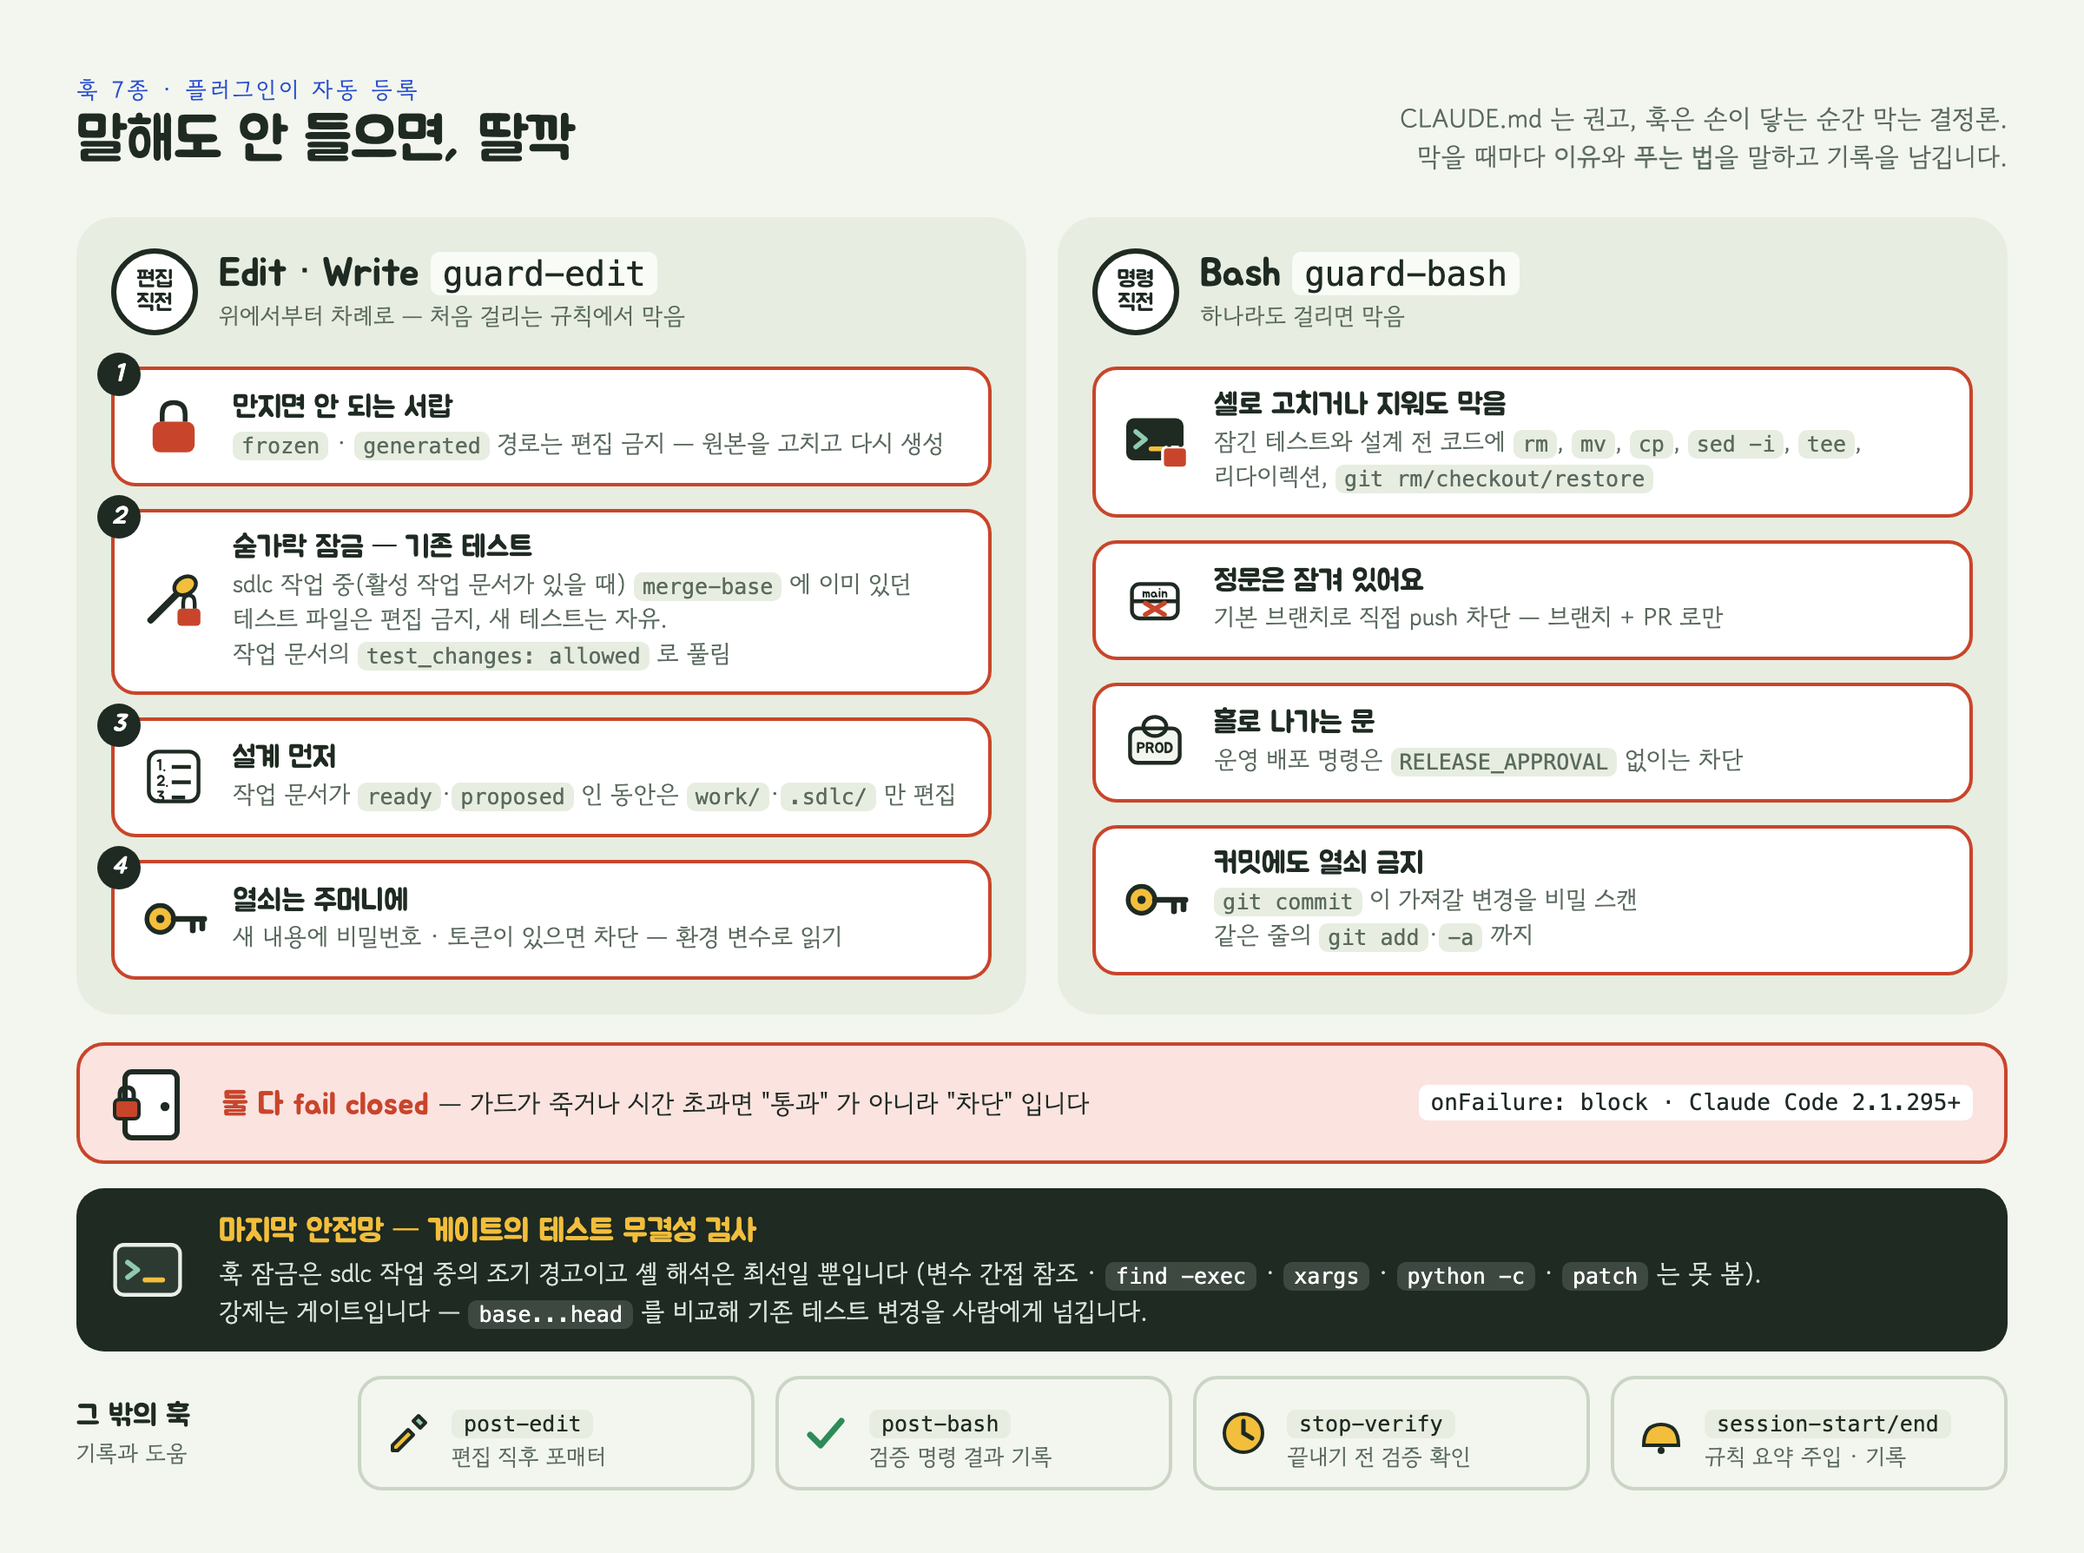
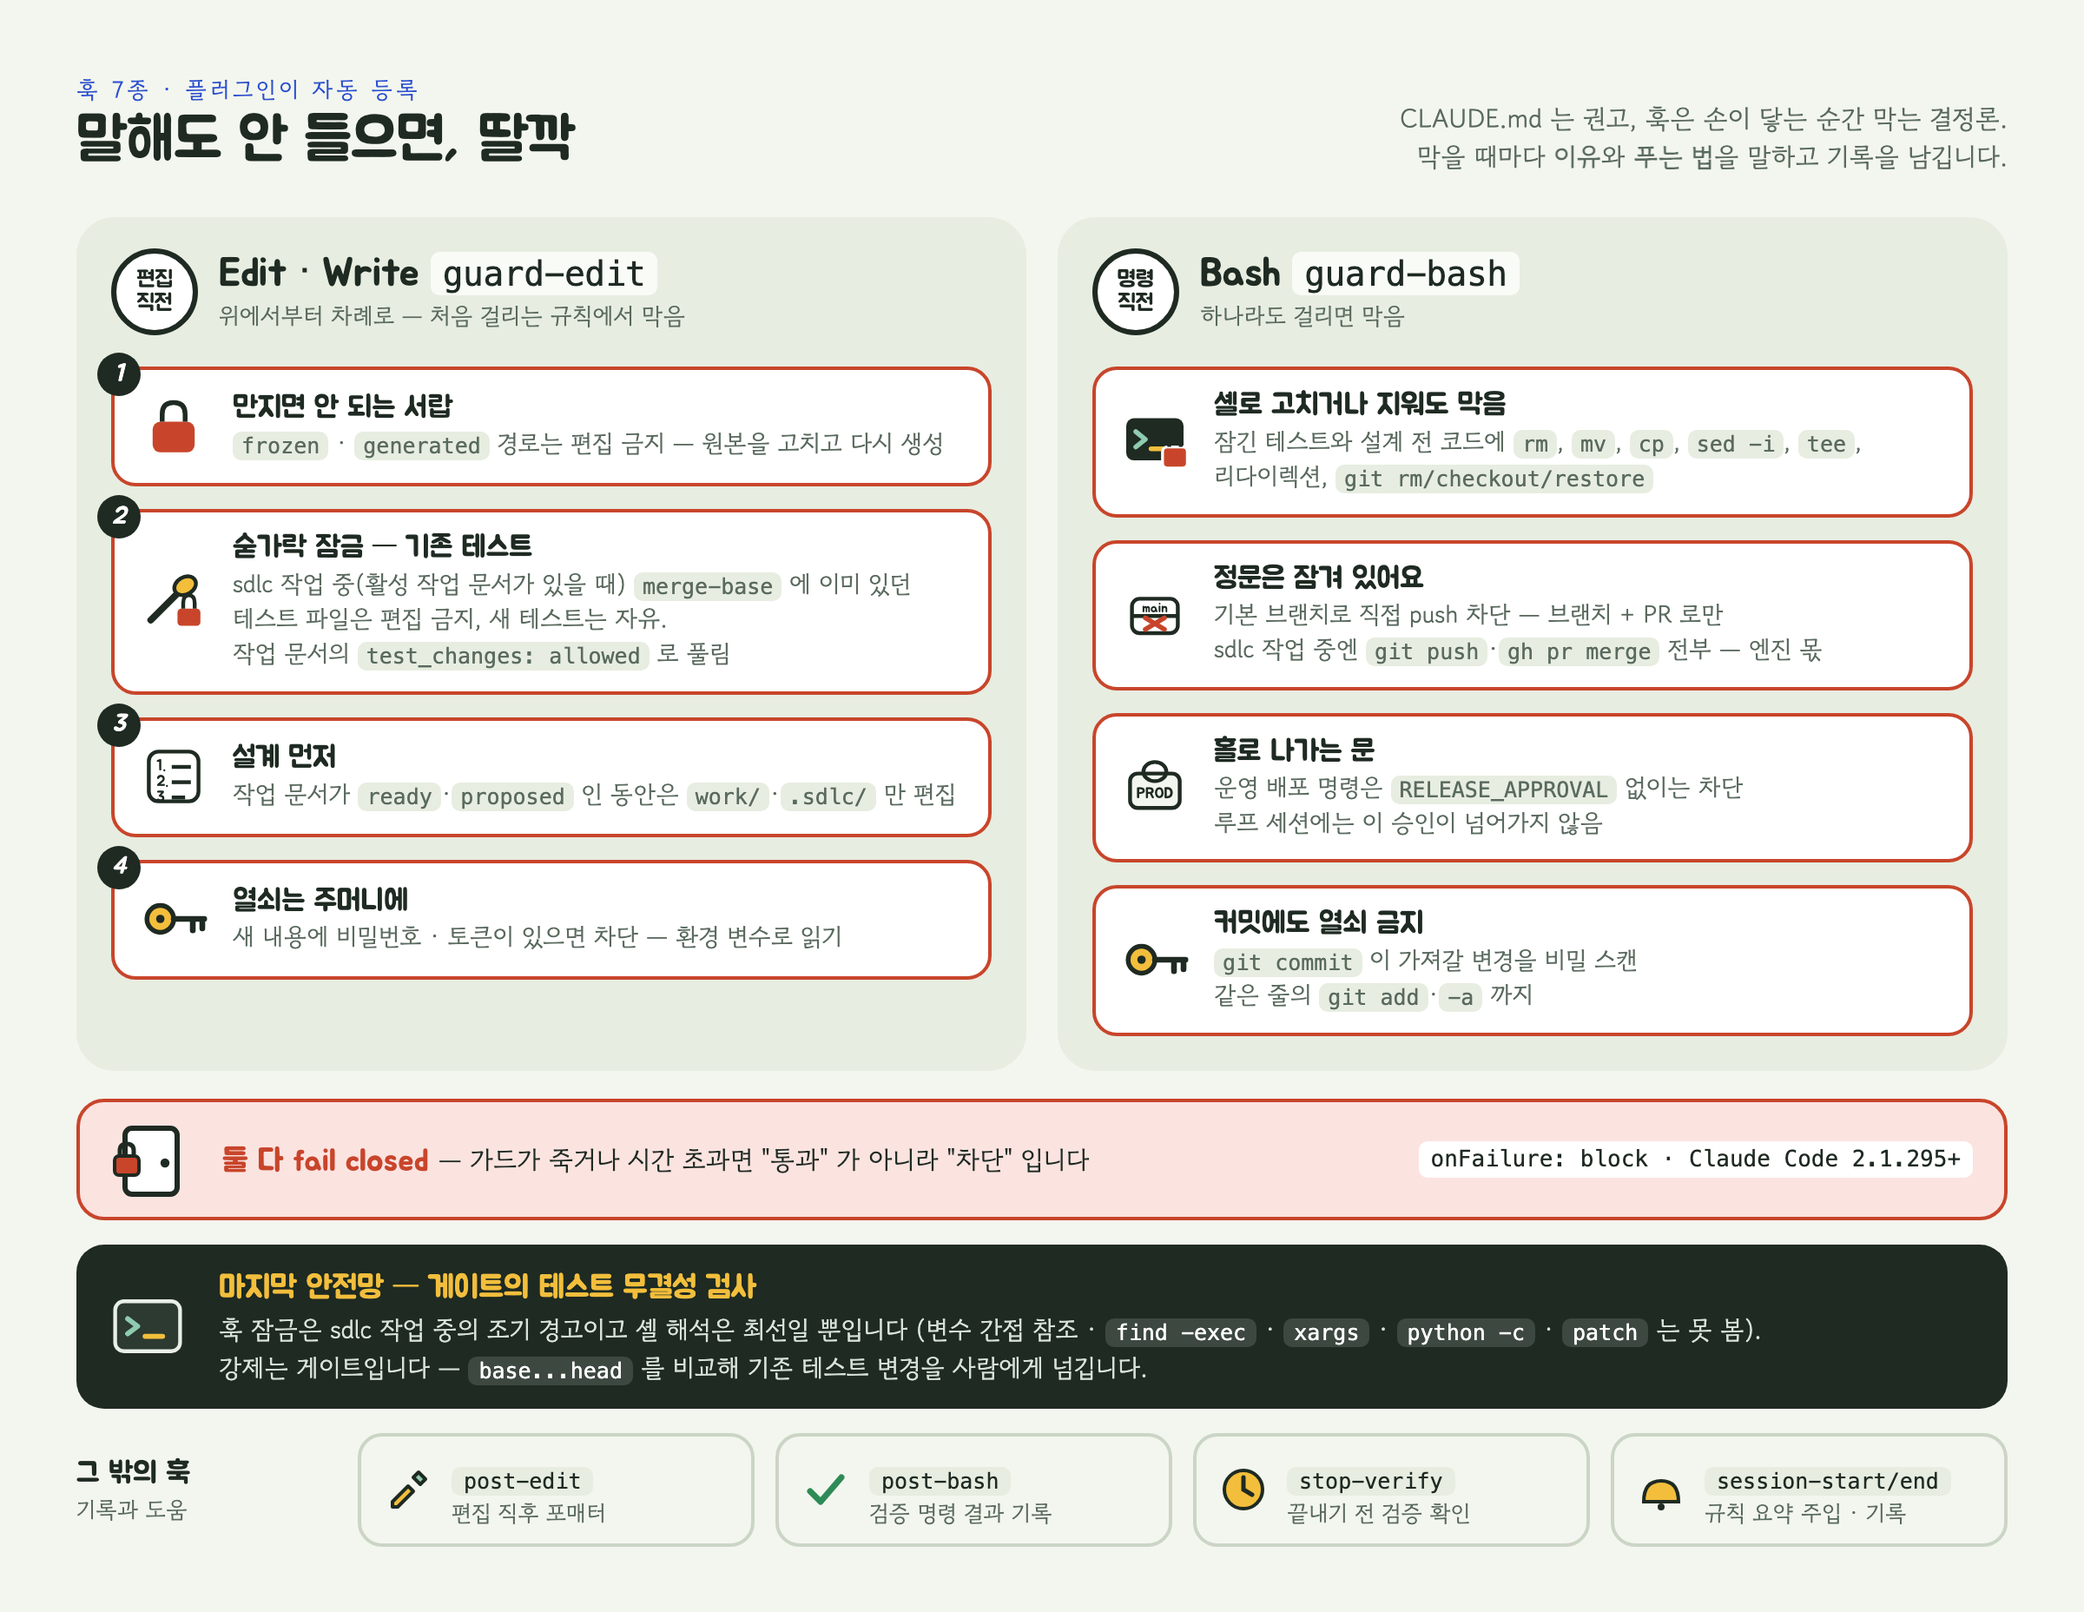
docs: pictures and README caught up with 1.2.2
01: the footer no longer names a version (it said sdlc 1.0). 02: gate
check 3 says a test-configuration change always goes to a person, even
under test_changes: allowed. 04: guard-bash blocks every git push and
gh pr merge during sdlc work, and the deploy approval is not passed to
loop sessions (picture 34px taller). README: rulesets on a private
repository need a paid plan (RULESET unavailable), and a person's merge
in a team repository is recorded, listed in status and counted in the
cost per merged item.

Claude-Session: https://claude.ai/code/session_01LrafRGdN6kSV3uTPLXSTGF

diff --git a/docs/img/src/04-hooks.html b/docs/img/src/04-hooks.html
@@ -1,7 +1,7 @@
 <!doctype html><html lang="ko"><head><meta charset="utf-8"><title>훅</title>
 <link rel="stylesheet" href="https://fonts.googleapis.com/css2?family=Jua&family=Gowun+Dodum&display=swap"><link rel="stylesheet" href="_style.css">
 <style>
-body{height:894px}
+body{height:928px}
 .cols{display:grid;grid-template-columns:1fr 1fr;gap:18px;margin-top:24px}
 .pn{background:var(--paper-2);border-radius:22px;padding:18px 20px 20px}
 .pn .hd{display:flex;align-items:center;gap:12px}
@@ -73,10 +73,10 @@ body{height:894px}
         <div><b>셸로 고치거나 지워도 막음</b><span>잠긴 테스트와 설계 전 코드에 <code>rm</code>, <code>mv</code>, <code>cp</code>, <code>sed -i</code>, <code>tee</code>, 리다이렉션, <code>git rm/checkout/restore</code></span></div></div>
       <div class="lk">
         <svg viewBox="0 0 40 40"><rect x="8" y="12" width="24" height="18" rx="4" fill="#fff" stroke="var(--ink)" stroke-width="2"/><path d="M8 21 h24" stroke="var(--ink)" stroke-width="2"/><text x="20" y="19" text-anchor="middle" font-size="7">main</text><path d="M15 28 l10 -6 M15 22 l10 6" stroke="var(--stop)" stroke-width="2.5" stroke-linecap="round"/></svg>
-        <div><b>정문은 잠겨 있어요</b><span>기본 브랜치로 직접 push 차단 — 브랜치 + PR 로만</span></div></div>
+        <div><b>정문은 잠겨 있어요</b><span>기본 브랜치로 직접 push 차단 — 브랜치 + PR 로만<br>sdlc 작업 중엔 <code>git push</code>·<code>gh pr merge</code> 전부 — 엔진 몫</span></div></div>
       <div class="lk">
         <svg viewBox="0 0 40 40"><rect x="7" y="13" width="26" height="18" rx="4" fill="var(--paper)" stroke="var(--ink)" stroke-width="2"/><rect x="14" y="7" width="12" height="10" rx="6" fill="none" stroke="var(--ink)" stroke-width="2"/><text x="20" y="26" text-anchor="middle" font-size="8">PROD</text></svg>
-        <div><b>홀로 나가는 문</b><span>운영 배포 명령은 <code>RELEASE_APPROVAL</code> 없이는 차단</span></div></div>
+        <div><b>홀로 나가는 문</b><span>운영 배포 명령은 <code>RELEASE_APPROVAL</code> 없이는 차단<br>루프 세션에는 이 승인이 넘어가지 않음</span></div></div>
       <div class="lk">
         <svg viewBox="0 0 40 40"><circle cx="13" cy="20" r="7" fill="var(--sun)" stroke="var(--ink)" stroke-width="2.5"/><circle cx="13" cy="20" r="2.2" fill="var(--ink)"/><path d="M20 20 h16 M30 20 v6 M35 20 v5" stroke="var(--ink)" stroke-width="3" stroke-linecap="round" fill="none"/></svg>
         <div><b>커밋에도 열쇠 금지</b><span><code>git commit</code> 이 가져갈 변경을 비밀 스캔<br>같은 줄의 <code>git add</code>·<code>-a</code> 까지</span></div></div>

diff --git a/docs/img/src/02-go-flow.html b/docs/img/src/02-go-flow.html
@@ -121,7 +121,7 @@ body{height:874px}
     <div class="checks">
       <div class="ck fix"><i>1</i><b>빌드 · 테스트 · 린트</b><span>기본 브랜치를 합쳐 본 상태에서 다시 실행</span></div>
       <div class="ck fix"><i>2</i><b>리뷰 important=0</b><span>작업 문서 <code>## Review</code> 의 집계 줄</span></div>
-      <div class="ck ppl"><i>3</i><b>테스트 무결성</b><span>기존 테스트를 안 건드림<br><code>allowed</code> 면 삭제 · 케이스 감소 · 새 skip 만 검사</span></div>
+      <div class="ck ppl"><i>3</i><b>테스트 무결성</b><span>기존 테스트를 안 건드림 · 테스트 설정 변경은 늘 사람<br><code>allowed</code> 여도 삭제 · 케이스 감소 · 새 skip 은 막음</span></div>
       <div class="ck ppl"><i>4</i><b>인수 조건 · <code style="background:none;color:#fff;font-size:14px;padding:0">test_changes</code> 불변</b><span>설계 커밋 이후 그대로</span></div>
       <div class="ck ppl"><i>5</i><b>새 의존성 없음</b><span>매니페스트에 추가된 의존성이 없음</span></div>
       <div class="ck ppl"><i>6</i><b>위험 경로 · 가드 파일 없음</b><span><code>risk.human</code> 글롭 · <code>.sdlc/</code>·<code>.claude/</code> 설정 · <code>checks/</code></span></div>

diff --git a/docs/img/src/01-usage.html b/docs/img/src/01-usage.html
@@ -109,5 +109,5 @@ body{height:966px}
     <div><b>팀 저장소</b>설계 승인과 머지</div>
   </div>
 </div>
-<p class="foot">github.com/freewisl/ai-native-sdlc · sdlc 1.0</p>
+<p class="foot">github.com/freewisl/ai-native-sdlc</p>
 </body></html>

diff --git a/plugins/sdlc/README.md b/plugins/sdlc/README.md
@@ -29,7 +29,7 @@ claude plugin update sdlc@ai-native-sdlc      # 열려 있는 세션은 /reload-
 
 | 입력 | 일어나는 일 |
 |---|---|
-| `/sdlc:init` · "sdlc 붙여줘" · "점검해줘" | 저장소마다 한 번. 스택과 build·test·lint 명령을 감지해 `.sdlc/config.json`·`work/`·`REVIEW.md`·CLAUDE.md 절·`.claude/settings.json` 권한을 만들고(있는 파일은 덮어쓰지 않고 빠진 것만 보탬) 0.x 배치를 옮긴 뒤 `sdlc: adopt` 로 커밋합니다(GitHub 원격이면 PR). 룰셋·auto-merge 설정과 너무 긴 CLAUDE.md 줄이기는 제안만 하고 승인하면 적용하며, `--check` 는 상태 점검입니다 |
+| `/sdlc:init` · "sdlc 붙여줘" · "점검해줘" | 저장소마다 한 번. 스택과 build·test·lint 명령을 감지해 `.sdlc/config.json`·`work/`·`REVIEW.md`·CLAUDE.md 절·`.claude/settings.json` 권한을 만들고(있는 파일은 덮어쓰지 않고 빠진 것만 보탬) 0.x 배치를 옮긴 뒤 `sdlc: adopt` 로 커밋합니다(GitHub 원격이면 PR). 룰셋·auto-merge 설정과 너무 긴 CLAUDE.md 줄이기는 제안만 하고 승인하면 적용하며(비공개 저장소의 룰셋은 GitHub Pro·Team·Enterprise 에서만 됩니다 — 안 되면 `RULESET unavailable` 로 알리고 건너뛰고, 기본 브랜치로의 직접 push 는 훅이 계속 막습니다), `--check` 는 상태 점검입니다 |
 | `/sdlc:go "…"` · "X 해줘" | 변경 하나를 이 세션에서: 작업 문서 → 구현 → 셸 게이트 → PR → 머지 (팀 저장소는 사람이 머지) |
 | `/sdlc:run "목표"` · "X 만들어, 알아서 채우고 돌려" | 목표를 PR 하나 크기의 작업 항목으로 나눠 큐에 넣고 백그라운드 루프를 시작합니다. "큐에 넣어"는 큐에만 넣고, "루프 멈춰"·"이어서 돌려"는 루프를 멈췄다 잇습니다 |
 | `/sdlc:status` · "어디까지 됐어?" | 진행 상황, 내가 할 일, 비용. 질문에 답하고 "다시 해봐"·"그건 빼"로 항목을 다루는 것도 여기서 합니다 |
@@ -49,7 +49,7 @@ claude plugin update sdlc@ai-native-sdlc      # 열려 있는 세션은 /reload-
 
 1. **init** — 원격이 없으니 solo 모드이고 머지는 이 컴퓨터에서 합니다. 빈 저장소라 테스트 명령이 아직 없다는 안내가 나오는데, 첫 작업 항목이 채웁니다.
 2. **run** — 목표가 사용자만 정할 수 있는 결정(예: 스택)에 달려 있으면 객관식으로 먼저 묻습니다. 그다음 `project-skeleton` → `entry-crud` → `monthly-totals` → `csv-export` 처럼 작업 문서로 나눠(필요한 순서만 `depends_on`) 목록을 보여 주고 큐에 올린 뒤 루프를 시작합니다. 첫 항목이 뼈대와 테스트 하나를 만들고 build·test·lint 명령을 `commands.*` 와 CLAUDE.md 에 기록합니다. 비어 있던 명령을 채우는 것이므로 게이트가 사람에게 넘기지 않습니다.
-3. **status 와 질문** — status 는 루프가 어느 항목의 어느 단계인지, 큐 현황, 내가 할 일, 비용을 요약합니다. 세션이 혼자 정할 수 없는 것을 만나면 `## Questions` 에 객관식(추천 답이 맨 앞)을 남기고 그 항목만 보류한 채 다음으로 가며, 말로 답하면 그 항목을 이어 갑니다. "루프 멈춰"는 돌던 세션을 기록하고 멈추고, "이어서 돌려"가 이어 갑니다.
+3. **status 와 질문** — status 는 루프가 어느 항목의 어느 단계인지, 큐 현황, 내가 할 일, 비용, 최근 머지(사람이 머지한 것은 `by a person`)를 요약합니다. 세션이 혼자 정할 수 없는 것을 만나면 `## Questions` 에 객관식(추천 답이 맨 앞)을 남기고 그 항목만 보류한 채 다음으로 가며, 말로 답하면 그 항목을 이어 갑니다. "루프 멈춰"는 돌던 세션을 기록하고 멈추고, "이어서 돌려"가 이어 갑니다.
 
 ## 한 건이 머지되기까지 — `/sdlc:go`
 
@@ -127,7 +127,7 @@ SDLC_REVIEW_TALLY important=0 nits=0 validated=yes
 | `proposed` 항목 | 받아들이면 "받아"(`sdlc.py accept <slug>`), 아니면 "그건 빼" | 같음 |
 | 큐 PR | 바로 머지됨 | 사람이 머지 = 목록의 승인 |
 | 설계 | — | 설계 PR 승인(`/sdlc:go` 는 대화에서 OK) |
-| 머지 | 게이트(GitHub 이면 PR 체크까지)를 통과하면 엔진이 | 통과한 PR 을 사람이 |
+| 머지 | 게이트(GitHub 이면 PR 체크까지)를 통과하면 엔진이 | 통과한 PR 을 사람이(루프가 알아채고 머지로 기록) |
 
 ## 머지 게이트
 
@@ -177,7 +177,7 @@ SDLC_REVIEW_TALLY important=0 nits=0 validated=yes
 - 서브에이전트의 모델은 `agents/*.md` 의 `model:` 에 있고 config 로 바꾸지 않습니다: reviewer opus, builder·verifier·simplifier sonnet, researcher haiku. `/sdlc:go` 는 메인 세션이 설계를 맡고 구현은 builder 에, 리뷰는 reviewer 에 넘기며(머지는 엔진의 `ship`), 루프에서는 구현 세션 자신이 구현 모델이라 builder 를 다시 부르지 않습니다.
 - **사용량 한도** — 모델 계열 한도(Opus·Sonnet 등)는 설정된 다른 계열 모델로 바꿔 이어 가고, 세션·주간 한도는 알려 주는 리셋 시각까지 잠들었다가(시각을 모르면 30분 뒤 다시) 이어 갑니다. `loop.limit_wait_hours`(6) 안에 풀리지 않으면 이유를 말하고 멈추고, 리셋 뒤 "이어서 돌려"로 재개합니다. 지출 한도는 바로 멈춥니다.
 - **세션 상한** — 세션 하나는 120분(`loop.session_max_minutes`)이나 500턴(`loop.max_turns`)에서 멈추고, `loop.budget_usd_per_session` 을 정했으면 그 금액에서도 멈춥니다(기본 0 = 비용 상한 없음). 턴과 비용 상한은 이어 간 세션마다 처음부터 다시 셉니다. 그래서 한 단계가 쓸 수 있는 최대 금액은 그 금액의 (1 + `max_continuations`)배입니다. 상한에 걸려도 하던 일은 버리지 않습니다. 같은 세션을 바로 `--resume` 으로 이어 가며, 한 단계에서 `loop.max_continuations`(3)번까지 잇습니다. 실패로 세는 것은 직전 멈춤 이후 바뀐 것이 없을 때와, 다 잇고도 끝나지 않았을 때뿐입니다. 로그와 실패 사유에는 걸린 상한이 적힙니다(`turn cap` · `time cap (120 min)` · `budget cap ($금액)`). "루프 멈춰"나 사용량 한도로 멈춘 뒤 55분(`loop.cold_resume_minutes`)이 지나서 재개하면 프롬프트 캐시가 식어 `--resume` 이 더 비쌉니다. 그때는 새 "이어 하기" 세션으로 시작합니다.
-- **비용** — 세션마다 기록되어 status 에 오늘·7일·머지한 항목당 중앙값이 나오고, 루프가 도는 중에는 이번 실행 합계도 나옵니다. 엔진이 띄운 세션(루프의 설계·구현·수정과 자기 점검)만 세며, 대화형 `/sdlc:go` 는 들어가지 않습니다.
+- **비용** — 세션마다 기록되어 status 에 오늘·7일·머지한 항목당 중앙값(팀 저장소에서 사람이 머지한 항목 포함)이 나오고, 루프가 도는 중에는 이번 실행 합계도 나옵니다. 엔진이 띄운 세션(루프의 설계·구현·수정과 자기 점검)만 세며, 대화형 `/sdlc:go` 는 들어가지 않습니다.
 - **세션 시작 비용과 격리(선택)** — 세션 하나는 일을 시작하기 전에 이미 프롬프트 약 25k 토큰(시스템 프롬프트·도구·스킬·플러그인·CLAUDE.md)을 안고 시작합니다. 측정(claude 2.1.296, haiku, 1턴)에서 사용자의 다른 플러그인과 MCP 서버가 그중 약 4.8k(약 19%)였고, MCP 서버만으로는 약 300 이었습니다. `loop.isolate_sessions: true` 면 루프 세션이 이 프로젝트의 설정(`project`·`local`)과 sdlc 플러그인만 불러와 그만큼을 줄입니다. MCP 서버는 프로젝트의 `.mcp.json` 것까지 하나도 불러오지 않습니다. 루프 세션은 원래 `loop.allowed_tools` 의 도구만 쓰므로 보통은 잃는 것이 없지만, 프로젝트 설정의 허용 목록으로 MCP 도구를 쓰게 해 두었다면 켜지 마십시오. 기본이 꺼짐인 이유는 사용자 설정도 함께 읽히지 않기 때문입니다. 권한은 엔진이 따로 넘기고 모델도 단계마다 넘기므로 괜찮지만, 사용자 설정에 둔 인증·환경(`apiKeyHelper`, `env` 의 프록시나 베이스 URL)은 루프 세션에서 사라집니다. 다른 플러그인과 MCP 서버를 많이 쓰고 그런 설정이 루프에 필요 없을 때만 켜십시오. `--setting-sources` 를 모르는 claude 에서는 아무것도 바꾸지 않습니다. CLAUDE.md 는 프로젝트의 몫이라 길수록 모든 세션이 그만큼 더 냅니다([문제 해결](#문제-해결)).
 
 ## 훅
